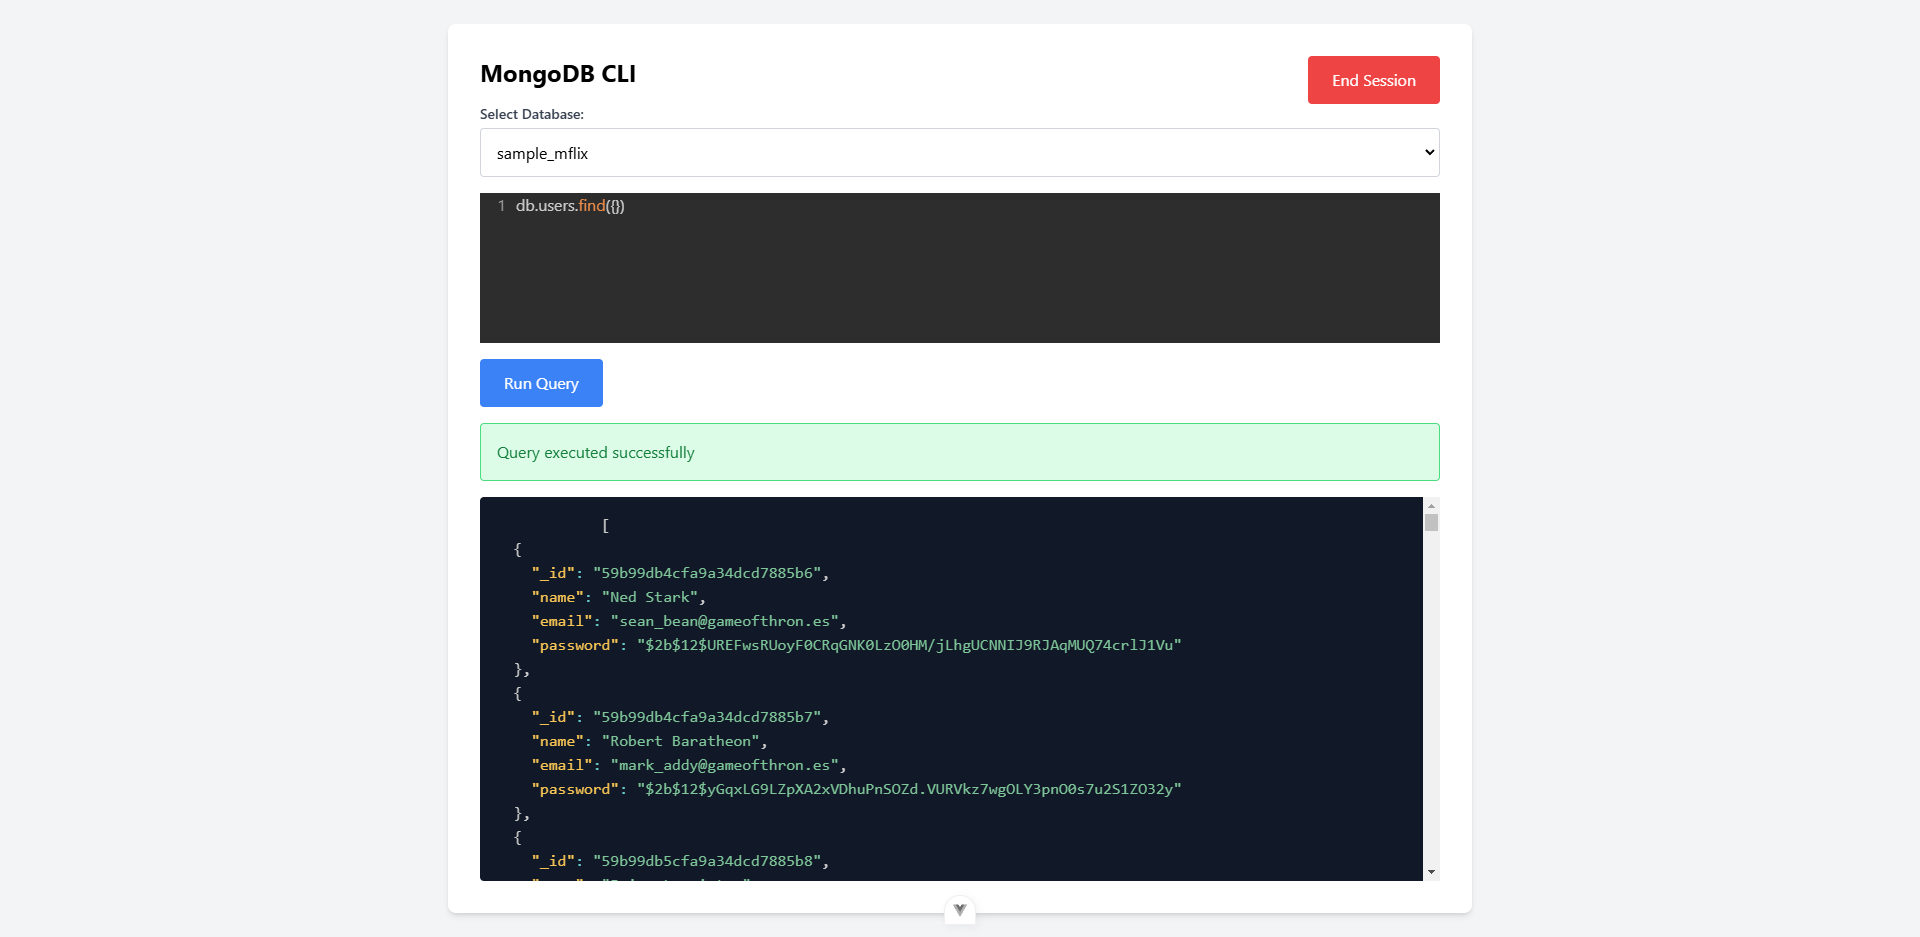
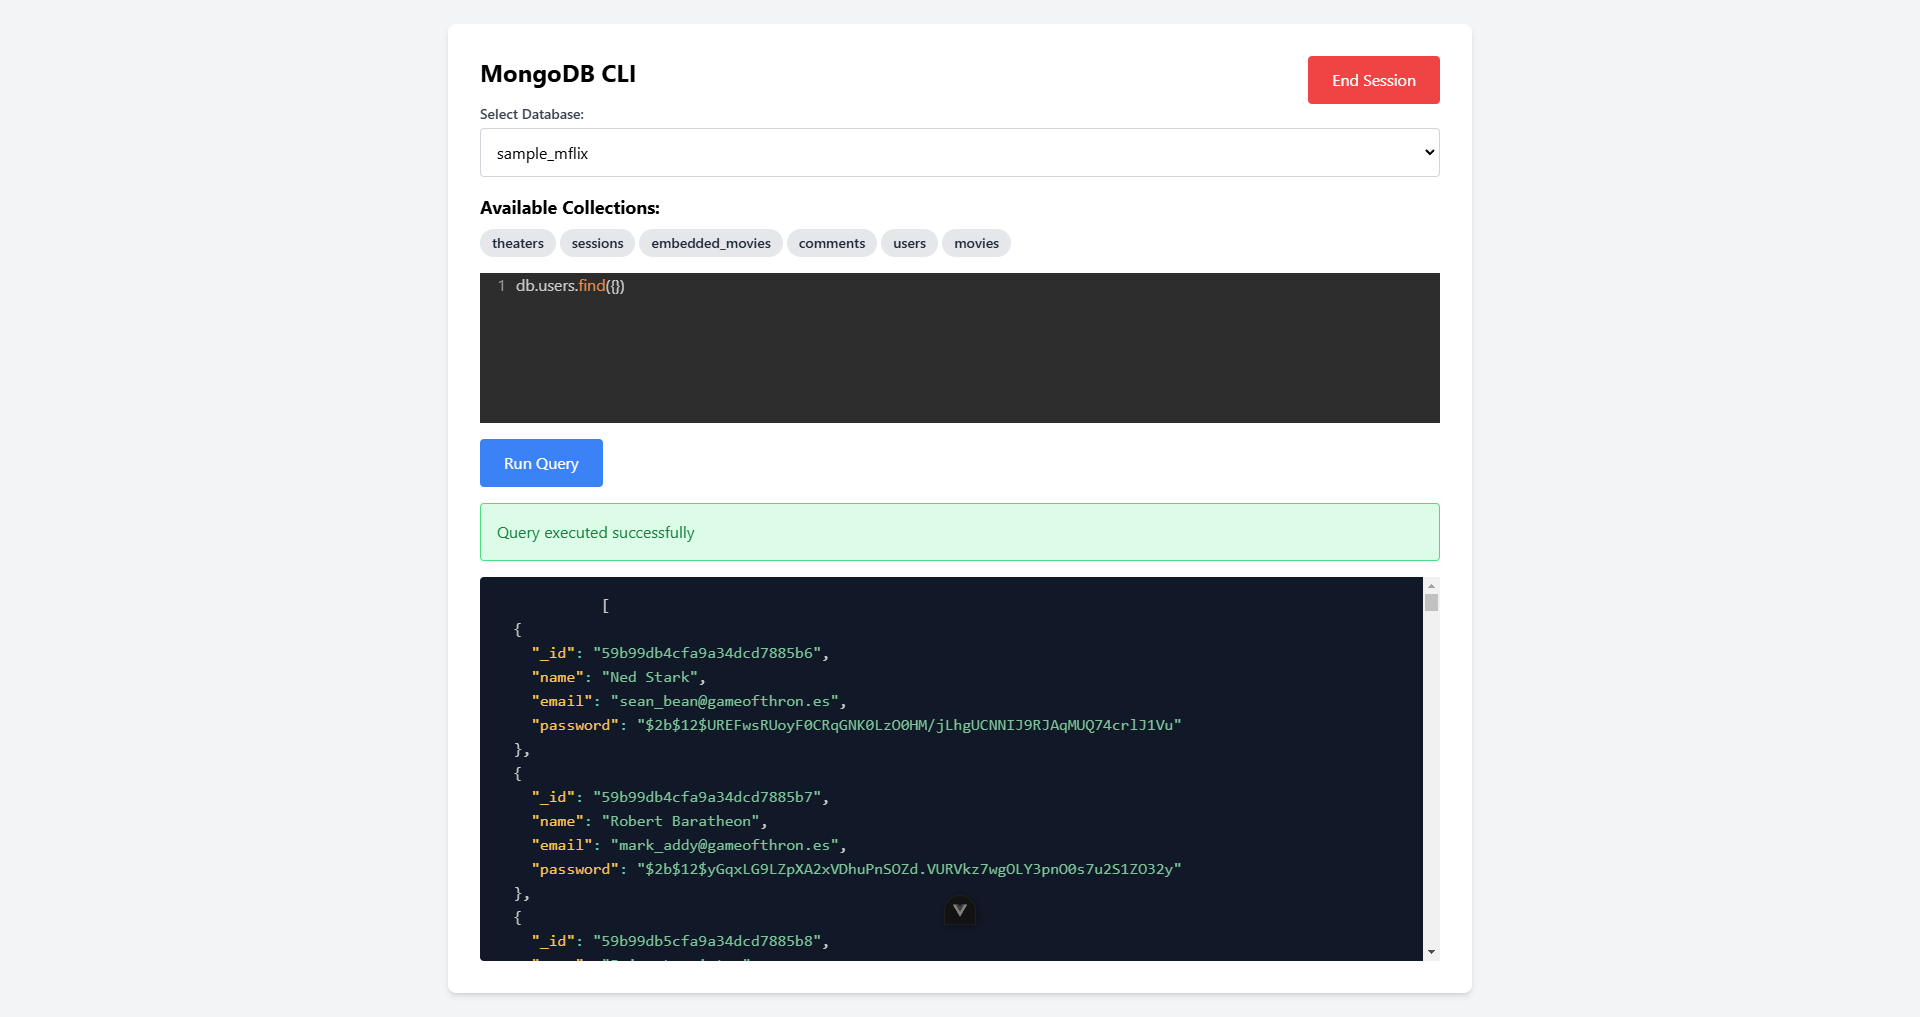
update readme

diff --git a/README.md b/README.md
@@ -1,94 +1,148 @@
-# MongoDB Web-Based CLI (Development In-Progress)
+# MongoDB Web-Based CLI 🚀 (In-Progress)
 
-## Overview
-As a teacher, I know firsthand how challenging it can be to teach MongoDB in a classroom setting when hardware resources are limited. In my case, I work with Chromebooks—great for many tasks but impractical for installing tools like MongoDB Compass, especially when managing a large number of students. Setting up Linux development environments on Chromebooks was not a scalable solution either, given the time and technical overhead involved.
+## Overview 📚
+As a teacher, I know firsthand how challenging it can be to teach MongoDB in a classroom setting when hardware resources are limited 😔. In my case, I work with Chromebooks—great for many tasks 💻 but impractical for installing tools like MongoDB Compass 🛠, especially when managing a large number of students 👨🎓👩🎓. Setting up Linux development environments on Chromebooks was not a scalable solution either, given the time and technical overhead involved ⏳.
 
-To address this, I developed the **MongoDB Web-Based CLI**—a lightweight, browser-based tool that allows students to interact with MongoDB without requiring any local installations. This tool connects directly to MongoDB instances hosted on our classroom servers, providing each student with secure, isolated access to practice MongoDB commands in real-time. 
+To address this, I developed the **MongoDB Web-Based CLI** 🌟—a lightweight, browser-based tool that allows students to interact with MongoDB without requiring any local installations 🖥. This tool connects directly to MongoDB instances hosted on our classroom servers 🌐, providing each student with secure, isolated access to practice MongoDB commands in real-time ⏱.
 
-This project is designed to make learning MongoDB accessible and engaging, even in environments with limited hardware capabilities. It eliminates the need for complex setups, allowing students to focus on mastering MongoDB concepts through hands-on experimentation.
+This project is designed to make learning MongoDB accessible and engaging 🎯, even in environments with limited hardware capabilities 💪. It eliminates the need for complex setups 🔧, allowing students to focus on mastering MongoDB concepts through hands-on experimentation 🧪.
 
 ![Connection Form](/screenshots/connection.png)  
+![Database selection](/screenshots/databases.png)
 ![Results Screen](/screenshots/results.png)
 
 ---
 
-## Features
-- **Web-Based Interface**: No need to install MongoDB or Compass locally; everything runs in the browser.
-- **Interactive Learning**: Execute MongoDB commands and see results instantly.
-- **Lightweight**: Optimized for low-resource devices.
-- **Secure Sandbox**: Each user session operates in an isolated environment to ensure safety and prevent interference.
-- **Educational Focus**: Tailored for classroom use, encouraging experimentation and learning.
+## Features ✨
+
+- **Web-Based Interface**: No need to install MongoDB or Compass locally; everything runs in the browser 🌐.
+- **Interactive Learning**: Execute MongoDB commands and see results instantly ⚡.
+- **Lightweight**: Optimized for low-resource devices 💻.
+- **Secure Sandbox**: Each user session operates in an isolated environment to ensure safety and prevent interference 🔒.
+- **Educational Focus**: Tailored for classroom use, encouraging experimentation and learning 📚.
+- **Shorthand Command Support**: Automatically converts shorthand commands like `db.users.find({})` into `db.collection('users').find({})` ✍.
+- **Collection Browser**: Displays all available collections in the selected database for easy reference 📋.
 
 ---
 
-## Getting Started
+## Getting Started 🏁
 
-### Prerequisites
-1. A modern web browser (e.g., Google Chrome, Firefox).
-2. An active internet connection.
-3. Basic MongoDB knowledge (optional but helpful).
+### Prerequisites 📋
+1. A modern web browser (e.g., Google Chrome, Firefox) 🌐.
+2. An active internet connection 🌍.
+3. Basic MongoDB knowledge (optional but helpful) 📚.
 
-### Setup Instructions
+### Setup Instructions 🛠
 1. **Access the Application**:
-   - Open your browser and navigate to the hosted URL provided by your instructor (e.g., `https://your-mongodb-cli-domain.com`).
+   - Open your browser and navigate to the hosted URL provided by your instructor (e.g., `https://your-mongodb-cli-domain.com`) 🌐.
 2. **Login** (if required):
-   - Use credentials provided by your instructor to access a secure sandbox environment.
-3. **Start Exploring**:
+   - Use credentials provided by your instructor to access a secure sandbox environment 🔑.
+3. **Connect to a Database**:
+   - Enter a valid MongoDB connection string to connect to a database instance 🔄.
+4. **Select a Database**:
+   - Choose a database from the dropdown menu to begin interacting with it 📂.
+5. **Explore Collections**:
+   - Once a database is selected, the tool will display all available collections in a clean, user-friendly format 📊.
+6. **Start Exploring**:
    - You’ll see a command-line interface (CLI) where you can type MongoDB commands:
      ```javascript
      // Insert a document into a collection
-     db.myCollection.insertOne({ "name": "John", "age": 25 });
+     db.users.insertOne({ name: "John", age: 25 });
      // Query documents
-     db.myCollection.find({ "age": 20 });
+     db.users.find({ age: 20 });
      ```
-4. **Experiment Freely**:
-   - Create databases, collections, insert data, query data, and more. Mistakes are encouraged—this is a safe learning environment!
+7. **Experiment Freely**:
+   - Create databases, collections, insert data, query data, and more. Mistakes are encouraged—this is a safe learning environment! 🧪✨
 
 ---
 
-## How It Works
-The MongoDB Web-Based CLI connects to a backend server that facilitates communication with **existing MongoDB instances**. Students provide a valid MongoDB connection string (e.g., for a cloud-hosted database or a local instance) to establish a connection.
+## How It Works 🤔
 
-Each user session is isolated, ensuring secure and independent interaction with the database. The frontend sends commands to the backend via an API, which then forwards these commands to the connected MongoDB instance. Results are fetched and displayed in real-time.
+The MongoDB Web-Based CLI connects to a backend server that facilitates communication with **existing MongoDB instances** 🌐. Students provide a valid MongoDB connection string (e.g., for a cloud-hosted database or a local instance) to establish a connection 🔗.
 
-**Note:** Currently, the tool supports only simple queries such as `find`, `insertOne`, `updateOne`, and `deleteOne`. Support for more advanced queries and operations will be added in future updates.
+Each user session is isolated, ensuring secure and independent interaction with the database 🔒. The frontend sends commands to the backend via an API, which then forwards these commands to the connected MongoDB instance. Results are fetched and displayed in real-time ⚡.
 
----
-
-## Why Use This Tool?
-- **Accessibility**: Eliminates the need for local installations, ideal for classrooms with limited hardware.
-- **Ease of Use**: A simple, intuitive interface lets students focus on learning MongoDB.
-- **Scalability**: Supports multiple users simultaneously, making it suitable for large classrooms.
-- **Cost-Effective**: Reduces the need for expensive hardware.
+**Key Features**:
+- **Shorthand Command Support**: Automatically converts shorthand commands like `db.users.find({})` into `db.collection('users').find({})` ✍.
+- **Collection Browser**: After selecting a database, the tool displays all available collections in a visually appealing format (e.g., chips or cards) 📋✨.
+- **Dynamic Execution**: Supports a wide range of MongoDB commands, including `find`, `insertOne`, `updateOne`, `deleteOne`, and more 🛠.
 
 ---
 
-## Limitations
+## Why Use This Tool? 🤩
+
+- **Accessibility**: Eliminates the need for local installations, ideal for classrooms with limited hardware 💻.
+- **Ease of Use**: A simple, intuitive interface lets students focus on learning MongoDB 🧠.
+- **Scalability**: Supports multiple users simultaneously, making it suitable for large classrooms 🏫.
+- **Cost-Effective**: Reduces the need for expensive hardware or software licenses 💰.
+- **Enhanced Learning**: The collection browser and shorthand command support make it easier for students to explore databases and execute commands 🧪🌟.
+
+---
+
+## Limitations ⚠
+
 While this tool is great for learning, keep these limitations in mind:
-1. **Performance**: Shared backend performance may vary with concurrent users.
-2. **Feature Set**: Not all MongoDB features are supported.
-3. **Temporary Data**: Data created during a session does not persist after the session ends, ensuring a clean slate for each user.
+1. **Performance**: Shared backend performance may vary with concurrent users ⏳.
+2. **Feature Set**: Not all MongoDB features are supported yet (e.g., aggregation pipelines, transactions) 🛠.
+3. **Temporary Data**: Data created during a session does not persist after the session ends, ensuring a clean slate for each user 🧹.
+4. **Security**: Only trusted users should have access to the tool to prevent malicious command execution 🔒.
 
 ---
 
-## Contributing
+## Project Setup 🛠
+
+To set up the MongoDB Web-Based CLI locally, follow these steps:
+
+1. **Install Docker and Docker Compose**:
+   - Ensure Docker and Docker Compose are installed on your system 🐳. You can download them from [Docker's official website](https://www.docker.com/).
+
+2. **Clone the Repository**:
+   ```bash
+   git clone https://github.com/aleksis-ste/mongodb-web-cli.git
+   cd mongodb-web-cli
+   ```
+
+3. **Build and Run the Containers**:
+   - Use Docker Compose to build and start the application in detached mode:
+     ```bash
+     docker-compose up -d
+     ```
+
+4. **Access the Application**:
+   - Once the containers are running, open your browser and navigate to `http://localhost:3000` 🌐.
+
+5. **Connect to a MongoDB Instance**:
+   - Enter a valid MongoDB connection string (e.g., for a local or cloud-hosted MongoDB instance) to start interacting with the database 🔗.
+
+6. **Stop the Application**:
+   - To stop the application, run:
+     ```bash
+     docker-compose down
+     ```
+
+---
+
+## Contributing 🤝
+
 We welcome contributions from educators, developers, and students! To contribute:
-1. Fork the repository.
-2. Create a new branch for your feature or bug fix.
-3. Submit a pull request with a detailed description of your changes.
+1. Fork the repository 🍴.
+2. Create a new branch for your feature or bug fix 🌿.
+3. Submit a pull request with a detailed description of your changes 📝.
 
-For major changes, please open an issue first to discuss your ideas.
-
----
-
-## Support
-If you encounter issues or have questions, contact your instructor or open an issue on the project's GitHub repository.
+For major changes, please open an issue first to discuss your ideas 💡.
 
 ---
 
-## License
+## Support 🆘
+
+If you encounter issues or have questions, contact your instructor or open an issue on the project's GitHub repository 📢.
+
+---
+
+## License 📄
+
 This project is licensed under the MIT License. See the [LICENSE](LICENSE) file for details.
 
 ---
 
-Happy Learning! 🚀
+Happy Learning! 🚀📚✨
